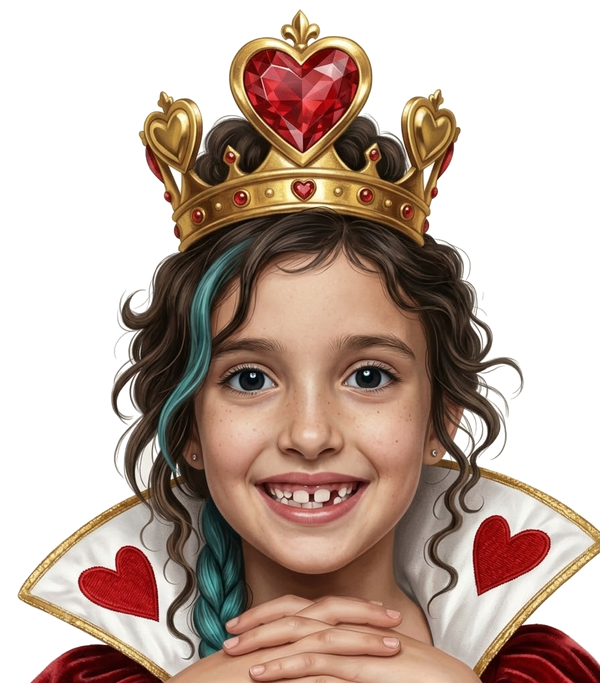
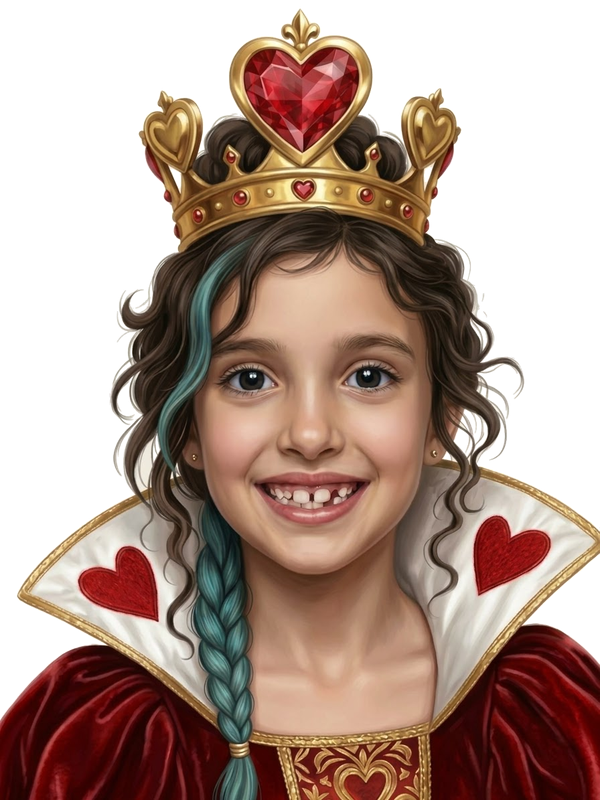
Rotem's picture: a version with her neck, framed with more room
The family's version without the hands. The face sits higher and a bit
smaller in the heart frame, so her neck, braid and collar show and the
frame no longer closes in right under her chin.

Claude-Session: https://claude.ai/code/session_01ESZoghrFMgfN839jkUBWun

diff --git a/src/party/shared/RotemPhoto.js b/src/party/shared/RotemPhoto.js
@@ -3,12 +3,13 @@ import { HEART_PATH, useSvgId } from './Heart';
 import { Sparkle } from './PartyBackdrop';
 
 // The birthday girl: public/rotem.png, a drawing of Rotem as the queen of
-// hearts cut out on a transparent background (its width = the heart's width,
-// the eyes 55% down the drawing). Her own crown pops out above the
-// heart frame. Without the file a placeholder heart with a drawn crown is shown.
+// hearts cut out on a transparent background (600 x 800, the eyes 47% down).
+// Her face sits high in the heart with room around it and her neck showing,
+// and her own crown pops out above the frame. Without the file a placeholder
+// heart with a drawn crown is shown.
 const PHOTO_URL = `${process.env.PUBLIC_URL || ''}/rotem.png`;
 // where the drawing sits in the heart's 100 x 92 box
-const ART = { x: -1.6, y: -24.8, width: 100, height: 113.8 };
+const ART = { x: 5.6, y: -21.7, width: 86.2, height: 115 };
 
 let photoPromise = null;
 let knownUrl; // undefined = not checked yet, null = no photo
